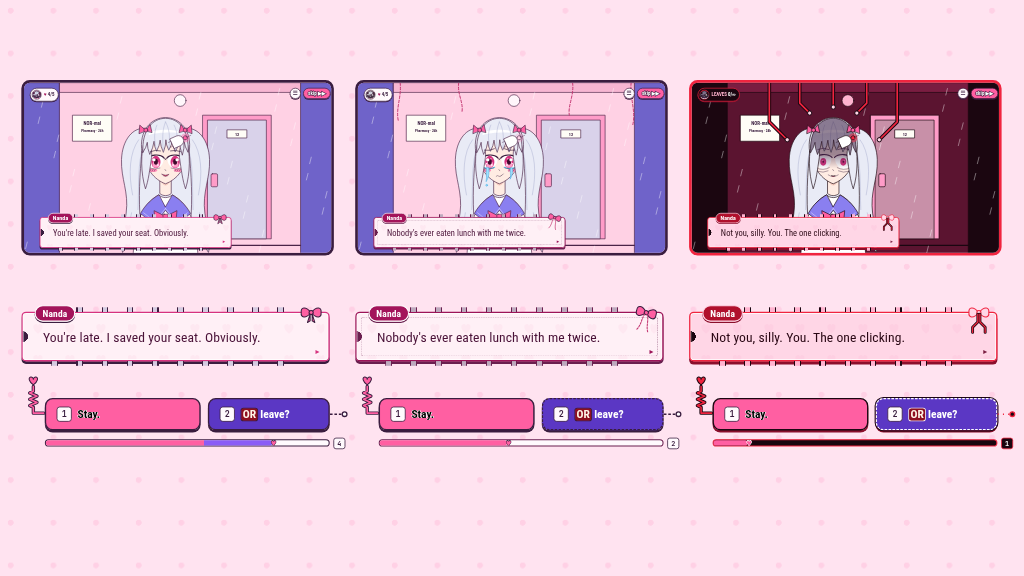
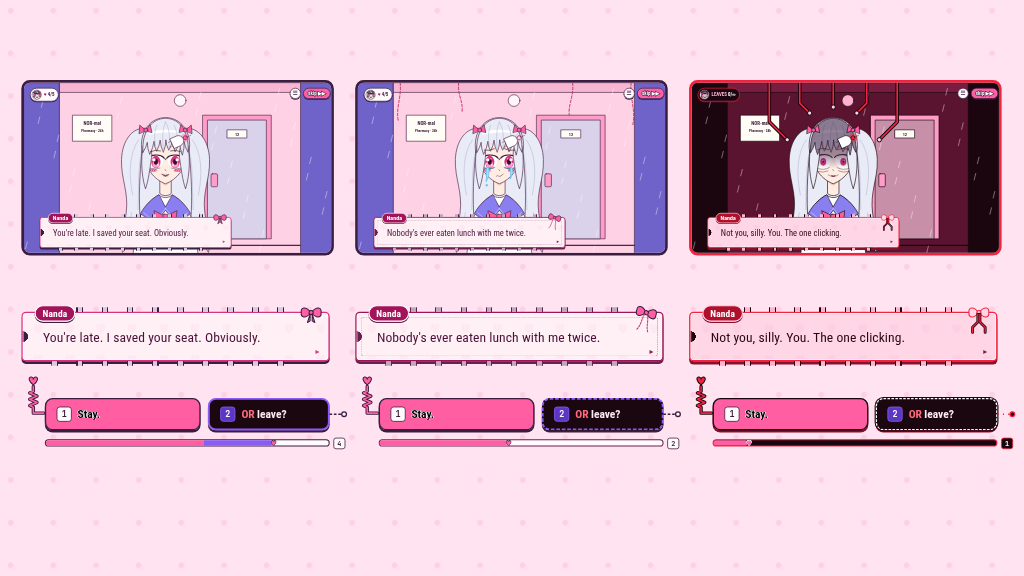
date-beta mockups R2b: HA all pages; OR rule = C (dark scrim, Tony's pick), PINKBLACK white ring, top-entry traces, rewind = trace reroute, no drips, sticker line, date HUD tile, menu + skip
Claude-Session: https://claude.ai/code/session_01UhPYoEZsoNzPhdV9xxEjmA

diff --git a/research/date-beta-mockups/HA/theme.css b/research/date-beta-mockups/HA/theme.css
@@ -62,24 +62,42 @@ html.dev .callout b, html.dev .note b, html.dev .board > .label b { color: #fff 
 .devbadge { position: fixed; left: 12px; bottom: 12px; z-index: 999; font: 700 16px/1 var(--font-mono); background: #111; color: #ffe95a; border: 2px dashed #ffe95a; padding: 6px 10px; display: none; }
 html.dev .devbadge { display: block; }
 
-/* ---------- the OR rule (R2b, Tony: never saturated red text on pink). DEFAULT = option A "flip it":
-   OR lives in a deep-red badge with cream text (8.76:1), badge vs pink 3.31:1 (non-text >= 3). + 1 px offset + breath cue. No glow. ---------- */
-.or { display: inline-block; position: relative; left: 1px; top: 1px; padding: 0 .12em; margin: 0 .04em; line-height: 1.05; border-radius: .18em;
-  background: #8e0f1e; color: #fff6e8 !important; box-shadow: 0 0 0 3px #3a1d3f; text-shadow: none !important; -webkit-text-stroke: 0 !important; font-weight: 700; }
-.cap .or, .fxcap .or { box-shadow: 0 0 0 2px #fff6e8; }
-.or-svg { fill: #8e0f1e !important; stroke: #fff6e8; stroke-width: 4px; paint-order: stroke fill; }
-[data-dread="2"] .or { box-shadow: 0 0 0 3px #fff6e8; }
+/* ---------- the OR rule — PROD = option C (Tony's pick, R2b): never saturated red on pink. Any line or choice that carries an OR
+   hard-cuts onto a near-black scrim panel (#1A0710); OR = #FF6B7D bold on it (7.07:1), the rest of the line cream #FFE9F1 (16.8:1).
+   Pink stays for her sweet lines. A stray OR on a light surface (signage, steam) gets its own mini scrim chip. + 1 px offset + breath cue.
+   Reduced motion: it already IS a hard cut (no fade exists). ---------- */
+:root { --scrim: #1a0710; --or-on-dark: #ff6b7d; --scrim-ink: #ffe9f1; }
+.or { display: inline-block; position: relative; left: 1px; top: 1px; padding: 0 .1em; margin: 0 .03em; line-height: 1.05; border-radius: .16em;
+  background: var(--scrim); color: var(--or-on-dark) !important; text-shadow: none !important; -webkit-text-stroke: 0 !important; font-weight: 700; }
+.has-or .or, .hasor .or, .cap .or, .fxcap .or, .adore .or, .orC .or { background: none; padding: 0; margin: 0; }
+.or-svg { fill: var(--or-on-dark) !important; stroke: var(--scrim); stroke-width: 6px; paint-order: stroke fill; }
+.dlg.has-or { --box: var(--scrim); --box-ink: var(--scrim-ink); border-color: var(--her); box-shadow: inset 0 0 0 3px #3a0d1c, 0 10px 0 #3a1d3f; background-image: none; background-color: var(--scrim); }
+.dlg.has-or .line, .dlg.has-or.narr .line { color: var(--scrim-ink); }
+.dlg.has-or .next { color: var(--or-on-dark); }
+.dlg.has-or .pins { background: repeating-linear-gradient(90deg, var(--scrim) 0 4px, #c890a8 4px 22px, var(--scrim) 22px 26px, transparent 26px 96px); }
+/* an OR choice keeps its side's colour on the border + key cap (pink = toward, purple = leave), the face goes dark */
+.choice.hasor { background: var(--scrim) !important; color: var(--scrim-ink) !important; text-shadow: none !important; border-width: 7px; }
+.choice.pink.hasor { border-color: var(--pink); } .choice.pink.hasor .key { background: var(--pink); color: #000; border-color: var(--pink); }
+.choice.purple.hasor { border-color: #8a5cf6; } .choice.purple.hasor .key { background: var(--purple-deep); color: #fff; border-color: #8a5cf6; }
+.choice.hasor .line { text-shadow: none !important; }
+.chip.hasor { background: var(--scrim) !important; color: var(--scrim-ink) !important; text-shadow: none !important; }
+.chip.pink.hasor { box-shadow: inset 0 0 0 4px var(--pink); } .chip.purple.hasor { box-shadow: inset 0 0 0 4px #8a5cf6; }
+.ovlines p.has-or, .dlg.overflow .stack .line.has-or { background: var(--scrim); color: var(--scrim-ink); }
+
 /* comparison board (ui-13): B darken, C dark scrim, D accent bar */
+.orA .or { background: #8e0f1e; color: #fff6e8 !important; box-shadow: 0 0 0 3px #3a1d3f; padding: 0 .12em; }
+.orA .dlg.has-or, .orB .dlg.has-or, .orD .dlg.has-or { --box: #fff0f6; --box-ink: #4a1238; background-color: #fff0f6; border-color: var(--rim); box-shadow: inset 0 0 0 3px #fff, 0 10px 0 #3a1d3f; }
+.orA .dlg.has-or .line, .orB .dlg.has-or .line, .orD .dlg.has-or .line { color: #4a1238; }
+.orA .choice.pink.hasor, .orB .choice.pink.hasor, .orD .choice.pink.hasor { background: var(--pink) !important; color: #000 !important; border-color: #3a1d3f; }
+.orA .choice.purple.hasor, .orB .choice.purple.hasor, .orD .choice.purple.hasor { background: var(--purple-deep) !important; color: #fff !important; border-color: #3a1d3f; }
+.orA .choice .key, .orB .choice .key, .orD .choice .key { background: #fffafd !important; color: #3a1d3f !important; border-color: #3a1d3f !important; }
 .orB .or { background: none; color: #8a0f22 !important; box-shadow: none; padding: 0; }
 .orB .choice.pink .or { color: #5c0a17 !important; }
-.orC .or { background: none; color: #ff4a5f !important; box-shadow: none; padding: 0; }
-.orC .dlg { background: #1a0710; color: #fff; border-color: var(--her); }
-.orC .dlg .line { color: #fff; }
-.orC .choice.purple, .orC .choice.pink.hasor { background: #1a0710; color: #fff; text-shadow: none; }
 .orD .or { background: none; color: #b0102c !important; box-shadow: none; padding: 0; text-decoration: underline 4px #f0243f; text-underline-offset: 6px; }
 .orD .dlg { border-left: 16px solid var(--her); }
 .orD .choice.pink .or { color: #3a1d3f !important; }
 .orD .choice.hasor { border-left: 16px solid var(--her); }
+.and { display: inline-block; padding: 0 .1em; border-radius: .16em; background: var(--pink); color: #000 !important; text-shadow: none !important; box-shadow: 0 0 0 3px #3a1d3f; }
 .cmp { position: absolute; font: 700 26px/1.3 var(--font-mono); color: #3a1d3f; background: #fffafd; border: 4px solid #3a1d3f; border-radius: 12px; padding: 10px 14px; }
 .cmp b { color: #8e0f1e; }
 
@@ -303,7 +321,7 @@ html.dev .devbadge { display: block; }
 .fxline .bowslot { display: inline-block; width: 30px; height: 40px; vertical-align: middle; margin-right: 10px; }
 .fxline .bowslot svg { width: 30px; height: 40px; }
 .rpl { position: absolute; inset: 0; padding: 90px 26px 0; display: grid; grid-template-columns: 1.28fr 1fr; gap: 14px; align-content: start; background: #ffc9e0; }
-.rpl .chip { border: 4px solid #3a1d3f; border-radius: 18px; box-shadow: 0 6px 0 #3a1d3f; padding: 16px 14px; font-size: 30px; }
+.rpl .chip { white-space: nowrap; border: 4px solid #3a1d3f; border-radius: 18px; box-shadow: 0 6px 0 #3a1d3f; padding: 16px 14px; font-size: 30px; }
 .rpdead { background: repeating-linear-gradient(135deg, #e3deeb 0 12px, #d6cfe2 12px 24px); color: #3a3346; border-color: #7a7189 !important; box-shadow: none !important; }
 .rpdead s { text-decoration-thickness: 4px; }
 .rpdead.nudge { outline: 6px solid var(--her); outline-offset: 5px; }

diff --git a/research/date-beta-mockups/HA/ha-pages.js b/research/date-beta-mockups/HA/ha-pages.js
@@ -145,11 +145,11 @@
         ${choices({ pink: 'fORever.', purple: 'OR leave?', noTimer: true, style: { left: 120, right: 60, top: 330, bottom: 'auto' } })}</div>
       <div class="cmp" style="left:${x}px;top:${y + 330}px;width:880px">${title}<br>${note}</div>`;
     b.push(board(`
-      ${cmpP('orA', 40, 40, '<b>A · flip it</b> — red badge, cream text', 'text 8.76:1 · badge vs pink 3.31:1 · RECOMMENDED')}
+      ${cmpP('orA', 40, 40, '<b>A · flip it</b> — red badge, cream text', 'text 8.76:1 · badge vs pink 3.31:1')}
       ${cmpP('orB', 990, 40, '<b>B · darken</b> — crimson #8A0F22 text', 'on box 8.77:1 · on pink 3.41:1 (fails as text)')}
-      ${cmpP('orC', 40, 560, '<b>C · dark scrim</b> — OR lines on #1A0710', 'red #FF4A5F 5.91:1 · white 19.4:1')}
+      ${cmpP('orC', 40, 560, '<b>C · dark scrim</b> — PICKED (Tony) = PROD', 'OR #FF6B7D 7.07:1 · line #FFE9F1 16.8:1')}
       ${cmpP('orD', 990, 560, '<b>D · accent bar</b> — plum text + red bar', 'text 13.3:1 · OR #B0102C on box 6.44:1')}`,
-    { label: '<b>OR on pink</b> · A/B/C/D (was: #F0243F on pink = 1.47:1)', kind: 'cmp' }));
+    { label: '<b>OR on pink</b> · record only · C picked (was: #F0243F on pink = 1.47:1)', kind: 'cmp' }));
     return b;
   }
 
@@ -225,7 +225,7 @@
 
     b.push(board(`<div class="fill">${A.sceneGenkan()}</div>${layer(1, null, { paths: ['M240,0 C250,80 210,140 230,210', 'M860,0 C850,40 880,80 870,120'] })}
       ${dlg({ who: 'NANDA', text: 'I guessed your size. I\'m never wrong.', dock: 'tl', style: { left: 540, top: 150, width: 960 } })}
-      ${cap('[the door locks behind you]', { style: { left: 540, top: 380, bottom: 'auto' } })}
+      ${cap('[the door locks behind you]', { style: { left: 540, top: 440, bottom: 'auto' } })}
       ${chrome({ on: ['cc'] })}`,
     { label: '<b>Genkan</b> · 3 pairs to the millimetre · a 4th slot, yours · slippers · the shrine', kind: 'genkan', dread: 1 }));
 
@@ -250,7 +250,7 @@
         <b class="who">Nanda</b>
         <span class="bows"><i class="b0">${A.bow(0)}</i><i class="b1">${A.bow(1)}</i><i class="b2">${A.bow(2)}</i></span>
         <div class="stack">${ov.map((t, i) => `<p class="line${i === ov.length - 1 ? ' last' : ''}">${window.DB.or(t)}</p>`).join('')}</div></div>
-      ${cap('[café hum · a spoon, stirring]', { style: { left: 1320, bottom: 80 } })}
+      ${cap('[café hum · a spoon, stirring]', { style: { left: 1250, bottom: 80 } })}
       ${chrome({ on: ['cc'] })}
       <div class="abs callout" style="left:1320px;top:220px;width:500px">Lines stack one per 600 ms (RM: the same hard cuts).<br>The chip grows <b>upward</b>; the tag rides its top edge.<br>At max height the oldest line clips <b>under</b> the tag, never over it.</div>`,
     { label: '<b>LEAVE · 7:00 café</b> · the dialogue overflows · the name tag stays on top', kind: 'overflow', dread: 1 }));

diff --git a/research/date-beta-mockups/HA/ha-fx.js b/research/date-beta-mockups/HA/ha-fx.js
@@ -24,7 +24,7 @@
   const FX = {
     or: {
       setup: (s) => { s.innerHTML = `<div class="fxsign"><small>FIGUR WEATHER</small><div class="big">f-<span class="orslot">${or('OR')}</span>-ecast</div></div>
-        <div class="fxrow"><span class="chip pink">f${or('OR')}ever</span><span class="chip purple">${or('OR')} leave?</span></div>
+        <div class="fxrow"><span class="chip pink hasor">f${or('OR')}ever</span><span class="chip purple hasor">${or('OR')} leave?</span></div>
         <div class="fxmsg devonly">every "${or('OR')}" = her red · 1 px offset · breath</div>`; },
       play: (s) => {
         const slot = s.querySelector('.orslot');
@@ -135,7 +135,7 @@
         const L = s.querySelector('.ovlines');
         L.innerHTML = '';
         const lines = ['I\'m not crying.', 'You were going to leave.', 'Everyone leaves.', 'Not you. Right?', 'Right?', 'Right??', 'I made a schedule.', 'He wakes at 7:00.', 'From now on…', 'can we be forever?'];
-        lines.forEach((t, i) => later(s, () => { const p = document.createElement('p'); p.innerHTML = or(t); if (i === lines.length - 1) p.className = 'last'; L.appendChild(p); }, i * 600));
+        lines.forEach((t, i) => later(s, () => { const p = document.createElement('p'); p.innerHTML = or(t); if (/OR/.test(t)) p.classList.add('has-or'); if (i === lines.length - 1) p.classList.add('last'); L.appendChild(p); }, i * 600));
         later(s, () => { L.innerHTML = '<p>I\'m not crying.</p>'; }, lines.length * 600 + 2200);
         return lines.length * 600 + 2200;
       },

diff --git a/research/date-beta-mockups/HA/ha-ui.js b/research/date-beta-mockups/HA/ha-ui.js
@@ -16,7 +16,7 @@
   function dlg({ text, kind = 'nanda', dock = 'bl', style, next = true, and = false }) {
     const name = NAME[kind];
     const tag = name ? `<b class="who">${name}</b>` : '';
-    return `<div class="dlg ${kind} dock-${dock}" style="${st(style)}" role="status">
+    return `<div class="dlg ${kind} dock-${dock}${/OR/.test(text) ? ' has-or' : ''}" style="${st(style)}" role="status">
       <span class="pins top" aria-hidden="true"></span><span class="pins bot" aria-hidden="true"></span>
       ${tag}${kind === 'nanda' ? bows() : ''}<p class="line">${or(text, { and })}</p>
       ${next ? '<span class="next" aria-hidden="true">▸</span>' : ''}</div>`;
